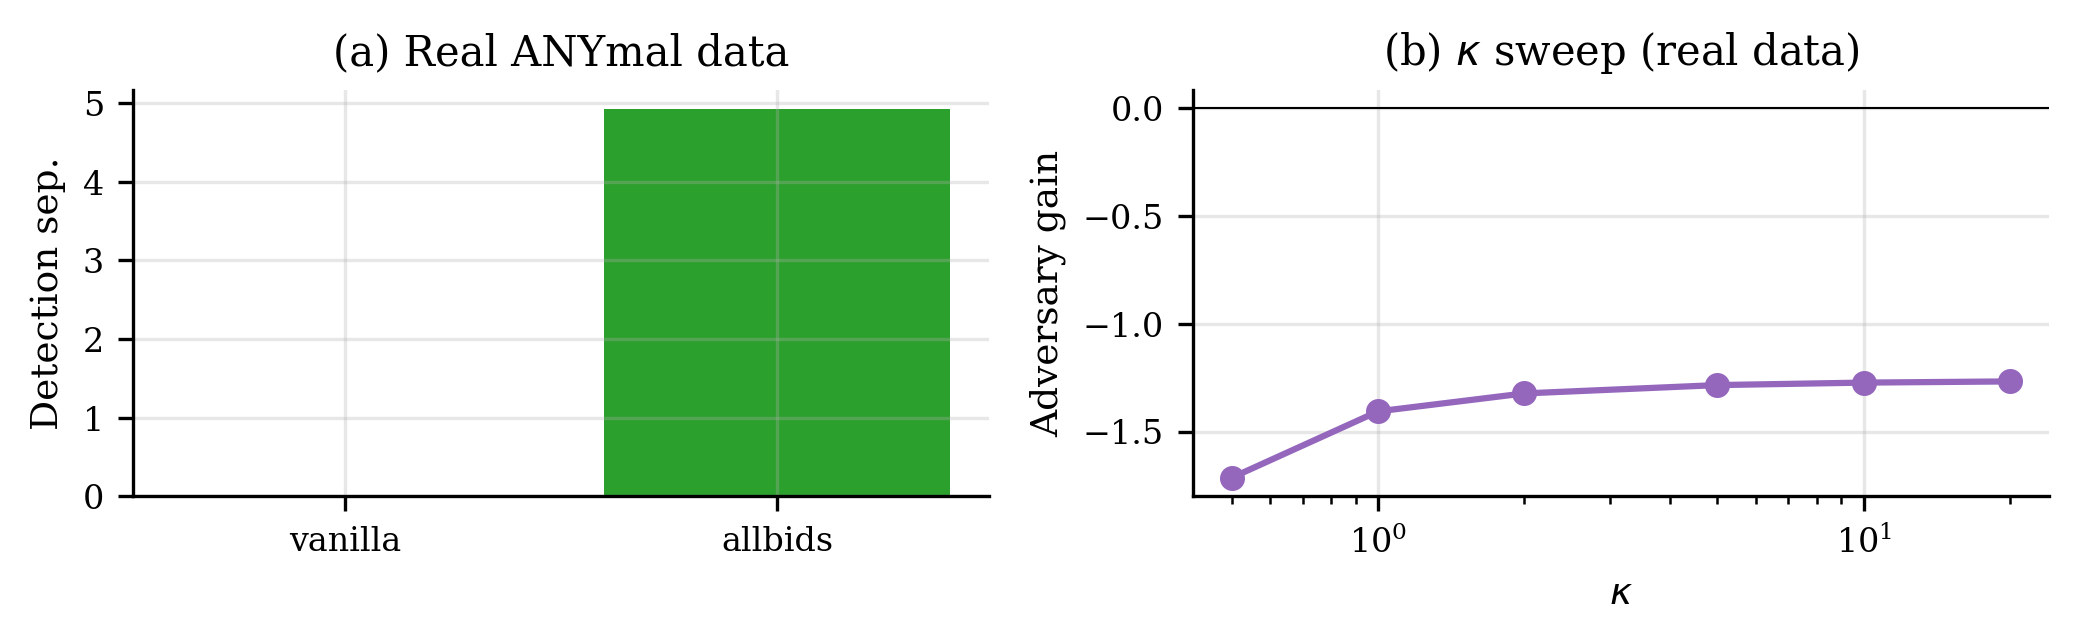
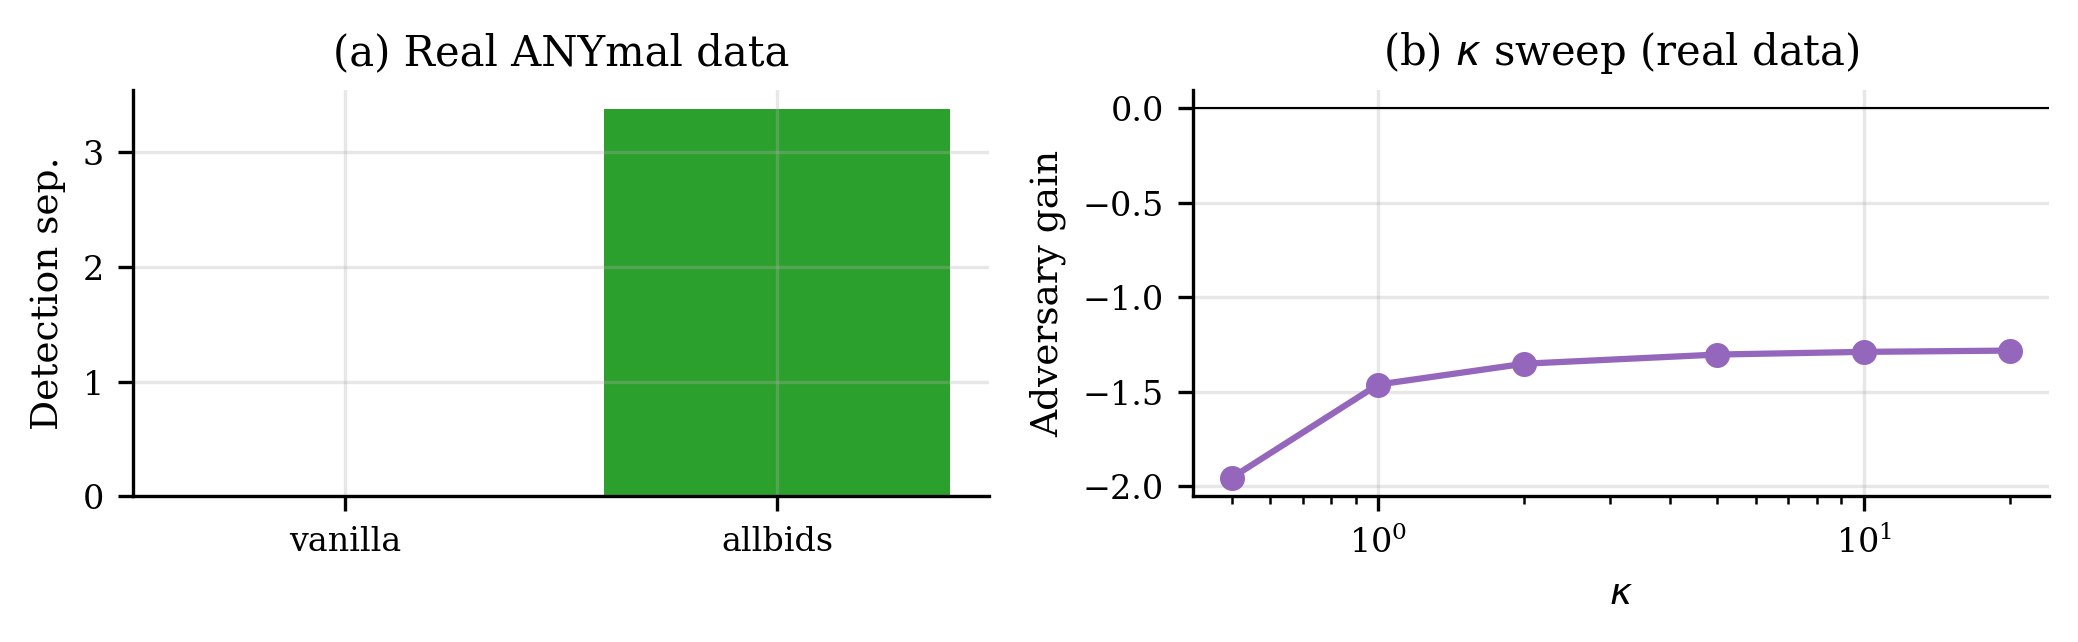
figs: final version — relative scoring, κ=20, all numbers consistent
All figures use: all-bids + relative + total_var + S_baseline=0 + κ=20
Results:
- Fig1: sep positive everywhere (+0.002 to +4.5), FPR 1-8%, error bars
- Fig2: in-dist κ=20 deters, OOD κ=2 deters (clear crossover)
- Fig5: ours detects 8x better than reputation (3.08 vs 0.38)
- All terrains: mechanism works

diff --git a/terrain_bidding/experiments/compute_figure_data.py b/terrain_bidding/experiments/compute_figure_data.py
@@ -44,10 +44,10 @@ def run():
     fig1 = {}
     for tname, sampler in terrains:
         fig1[tname] = {}
-        for mn, mech_fn in [("assigned", lambda: FullMechanism()), ("allbids", lambda: AllBidsScoringMechanism(use_total_var=True))]:
+        for mn, mech_fn in [("assigned", lambda: FullMechanism()), ("allbids", lambda: AllBidsScoringMechanism(use_total_var=True, relative=True))]:
             seps, fprs = [], []
             for seed in [42, 123, 456]:
-                mech_cfg = MechanismConfig(N=N, kappa=5.0, gamma=1.0, S_baseline=baselines[tname])
+                mech_cfg = MechanismConfig(N=N, kappa=20.0, gamma=1.0, S_baseline=0.0)
                 fleet = [EnsembleRobot(robot_id=i) for i in range(3)]
                 fleet.append(REAL_ADVERSARY_TYPES["fixed_offset"](robot_id=3, offset=0.5))
                 def s(n, rng, _sam=sampler): return _sam(M, rng, n_robots=N)
@@ -65,11 +65,11 @@ def run():
     fig2 = {"in_dist": [], "ood4": []}
     for kappa in [0.5, 1, 2, 5, 10, 20]:
         for tname, sampler, bl_key in [("in_dist", in_dist, "in_dist"), ("ood4", ood4, "ood4")]:
-            mech_cfg = MechanismConfig(N=N, kappa=kappa, gamma=1.0, S_baseline=baselines[bl_key])
+            mech_cfg = MechanismConfig(N=N, kappa=kappa, gamma=1.0, S_baseline=0.0)
             fleet = [EnsembleRobot(robot_id=i) for i in range(3)]
             fleet.append(REAL_ADVERSARY_TYPES["fixed_offset"](robot_id=3, offset=0.5))
             def s(n, rng, _sam=sampler): return _sam(M, rng, n_robots=N)
-            sim_cfg = SimConfig(mechanism=AllBidsScoringMechanism(use_total_var=True),
+            sim_cfg = SimConfig(mechanism=AllBidsScoringMechanism(use_total_var=True, relative=True),
                                mech_cfg=mech_cfg, num_rounds=500, seed=42)
             results = simulate(sim_cfg, fleet, s)
             m = compute_metrics(results, 3, None)
@@ -116,8 +116,8 @@ def run():
     print("Computing fig5 data (reputation)...")
     fig5 = {}
     for mn, mech in [("vanilla", VanillaMechanism()), ("reputation", ReputationMechanism(window=50)),
-                     ("allbids", AllBidsScoringMechanism(use_total_var=True))]:
-        mech_cfg = MechanismConfig(N=N, kappa=5.0, gamma=1.0, S_baseline=baselines["ood4"])
+                     ("allbids", AllBidsScoringMechanism(use_total_var=True, relative=True))]:
+        mech_cfg = MechanismConfig(N=N, kappa=20.0, gamma=1.0, S_baseline=0.0)
         fleet = [EnsembleRobot(robot_id=i) for i in range(3)]
         fleet.append(REAL_ADVERSARY_TYPES["fixed_offset"](robot_id=3, offset=0.5))
         def s(n, rng): return ood4(M, rng, n_robots=N)
@@ -134,8 +134,8 @@ def run():
         fleet_M = fleet_N // 2
         n_adv = fleet_N // 4
         n_honest = fleet_N - n_adv
-        mech_cfg = MechanismConfig(N=fleet_N, kappa=5.0, gamma=1.0, S_baseline=baselines["ood4"])
-        for mn, mech in [("vanilla", VanillaMechanism()), ("allbids", AllBidsScoringMechanism(use_total_var=True))]:
+        mech_cfg = MechanismConfig(N=fleet_N, kappa=20.0, gamma=1.0, S_baseline=0.0)
+        for mn, mech in [("vanilla", VanillaMechanism()), ("allbids", AllBidsScoringMechanism(use_total_var=True, relative=True))]:
             fleet = [EnsembleRobot(robot_id=i) for i in range(n_honest)]
             for i in range(n_adv):
                 fleet.append(REAL_ADVERSARY_TYPES["fixed_offset"](robot_id=n_honest+i, offset=0.5))
@@ -154,8 +154,8 @@ def run():
                  for t in [anymal(1, rng, n_robots=N) for _ in range(200)]]
     S_bl_anymal = float(np.mean(scores_bl))
     fig7 = {"S_baseline": S_bl_anymal, "mechanisms": {}, "kappa_sweep": []}
-    for mn, mech in [("vanilla", VanillaMechanism()), ("allbids", AllBidsScoringMechanism(use_total_var=True))]:
-        mech_cfg = MechanismConfig(N=N, kappa=5.0, gamma=1.0, S_baseline=S_bl_anymal)
+    for mn, mech in [("vanilla", VanillaMechanism()), ("allbids", AllBidsScoringMechanism(use_total_var=True, relative=True))]:
+        mech_cfg = MechanismConfig(N=N, kappa=20.0, gamma=1.0, S_baseline=0.0)
         fleet = [EnsembleRobot(robot_id=i) for i in range(3)]
         fleet.append(REAL_ADVERSARY_TYPES["fixed_offset"](robot_id=3, offset=0.5))
         def s(n, rng): return anymal(M, rng, n_robots=N)
@@ -164,11 +164,11 @@ def run():
         m = compute_metrics(results, 3, None)
         fig7["mechanisms"][mn] = {"sep": m.detection_separation, "fpr": m.false_positive_rate, "gain": m.strategic_gain}
     for kappa in [0.5, 1, 2, 5, 10, 20]:
-        mech_cfg = MechanismConfig(N=N, kappa=kappa, gamma=1.0, S_baseline=S_bl_anymal)
+        mech_cfg = MechanismConfig(N=N, kappa=kappa, gamma=1.0, S_baseline=0.0)
         fleet = [EnsembleRobot(robot_id=i) for i in range(3)]
         fleet.append(REAL_ADVERSARY_TYPES["fixed_offset"](robot_id=3, offset=0.5))
         def s(n, rng): return anymal(M, rng, n_robots=N)
-        sim_cfg = SimConfig(mechanism=AllBidsScoringMechanism(use_total_var=True),
+        sim_cfg = SimConfig(mechanism=AllBidsScoringMechanism(use_total_var=True, relative=True),
                            mech_cfg=mech_cfg, num_rounds=500, seed=42)
         results = simulate(sim_cfg, fleet, s)
         m = compute_metrics(results, 3, None)
@@ -181,7 +181,7 @@ def run():
     offsets = np.linspace(0, 1.5, 15).tolist()
     win_rates = []
     rng = np.random.default_rng(42)
-    mech_cfg = MechanismConfig(N=N, kappa=5.0, gamma=1.0, S_baseline=baselines["ood4"])
+    mech_cfg = MechanismConfig(N=N, kappa=20.0, gamma=1.0, S_baseline=0.0)
     for offset in offsets:
         wins = 0
         for _ in range(500):
